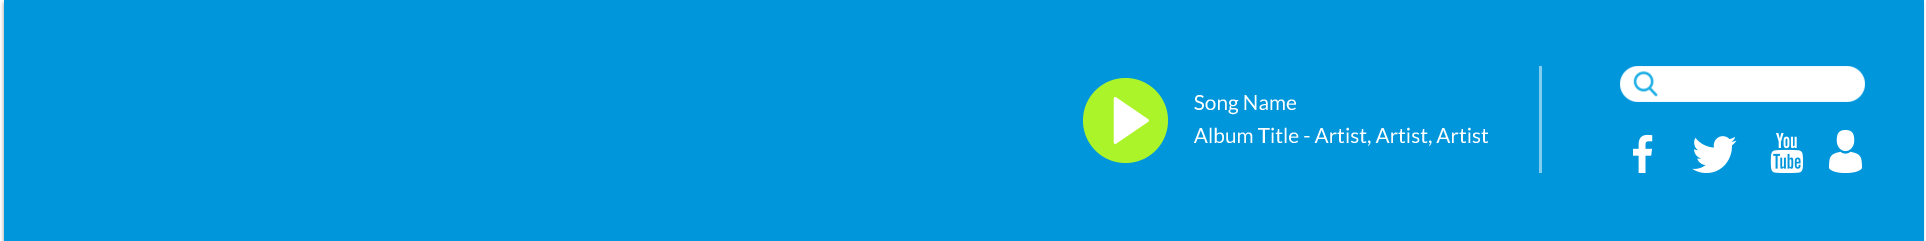
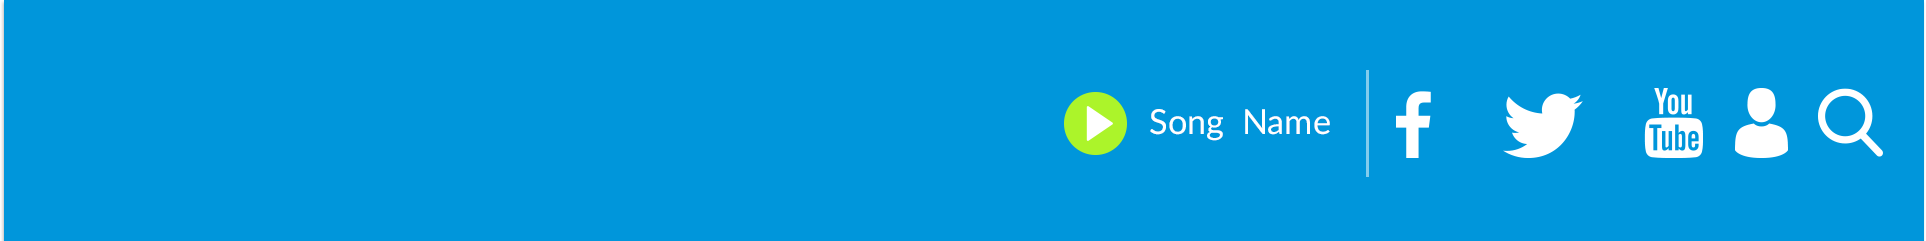
fixed menu changed

Changed region(s): [[0.5296, 0.2614, 0.9969, 0.7261]]

diff --git a/css/style.css b/css/style.css
@@ -114,7 +114,7 @@ header{
 }
 body.fixed .logoad-unit .logo {
     position: fixed;
-    top: 8px;
+    top: 34px;
     left: 82px;
     z-index: 999;
 	background-image: url('../image/wlogo.png');
@@ -132,7 +132,7 @@ body.fixed .logoad-unit .logo {
 .nav-body.fixed {
     position: fixed;
     top: 0;
-    height: 60px;
+    height: 105px;
     z-index: 998;
     width: 100%;
     background-image: initial;
@@ -201,7 +201,7 @@ body.fixed .logoad-unit .logo {
   top: 0;
 }
 .nav-body.fixed .burger-menu{
-	top: 0px;
+	top: 24px;
 }
 .nav-footer .ad-unit{
 	width: 100%;
@@ -275,7 +275,7 @@ section{
     color: #fff;
 }
 .section-title.scroll-to-fixed-fixed {
-    left: 316px !important;
+    left: 320px !important;
     padding: 0;
 }
 

diff --git a/index.html b/index.html
@@ -130,7 +130,7 @@ $(".burgermenu-unit").click(function(){
 
 
 $(document).ready(function() {
-  $('.section-title').scrollToFixed({  marginTop: 0  });
+  $('.section-title').scrollToFixed({  marginTop: 22  });
 });
 
 
